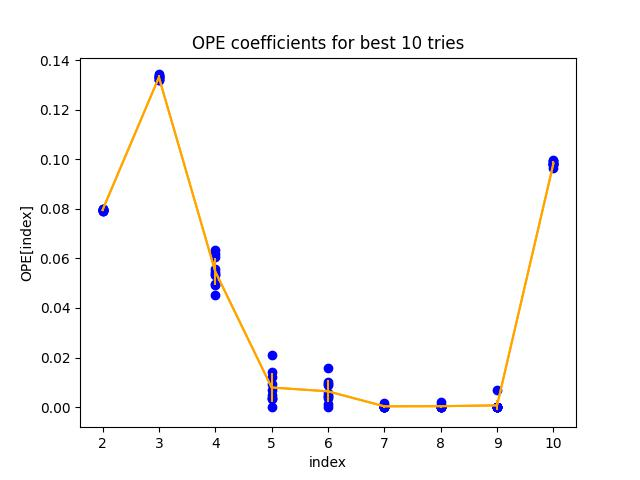
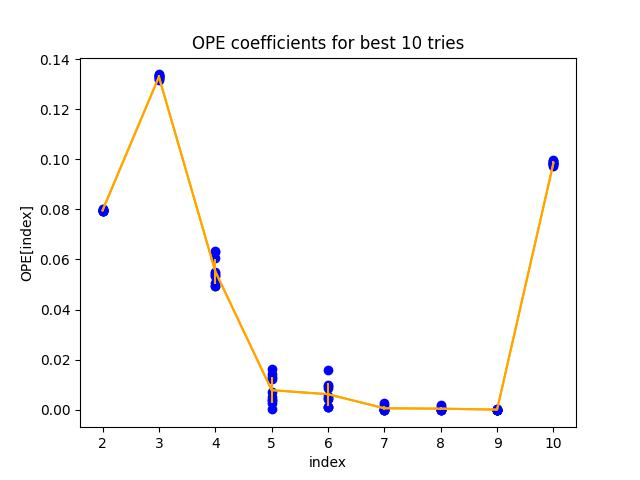
Added some more results

diff --git a/analyze_BPS_OPEs.py b/analyze_BPS_OPEs.py
@@ -14,11 +14,11 @@ gs = np.concatenate((np.arange(start=0.01, stop=0.25, step=0.01),
                      #np.arange(start=4.25, stop=5.25, step=0.25)
                      ))
 gs = np.around(gs, decimals=2)
-g = 0.25
+g = 0.35
 g_index = np.argwhere(gs==g)[0]
-
-path = join('/data/trenta', 'results_BPS_1fix_g025')
-prefix = 'g025'
+OPE_fix=1
+path = join('/data/trenta', f'results_BPS_{OPE_fix}fix_g035')
+prefix = 'g035'
 onlyfiles = [f for f in listdir(path) if isfile(join(path, f))]
 r = re.compile('sac[0-9]+.csv')
 onlyfiles = list(filter(r.match, onlyfiles))
@@ -31,10 +31,9 @@ best_reward = 0.
 delta_len = 10
 lambda_len = 10
 
-lambda_fix = 1
 
 rewards = np.zeros(n_files)
-OPEs = np.zeros((n_files, lambda_len-lambda_fix))
+OPEs = np.zeros((n_files, lambda_len-OPE_fix))
 
 for i, f in enumerate(onlyfiles):
     currf = open(join(path, f))
@@ -53,23 +52,23 @@ for i, f in enumerate(onlyfiles):
     curr_OPE = [float(data[i]) for i in range(5+delta_len, 5+delta_len+lambda_len)]
 
     rewards[i] = curr_rew
-    OPEs[i] = curr_OPE[lambda_fix:]
+    OPEs[i] = curr_OPE[OPE_fix:]
         
     currf.close()
     
 orderer = np.argsort(rewards)
-
+orderer = np.flip(orderer)
 OPEs_ordered = OPEs[orderer]
 
-best_rew_to_take = 500
+best_rew_to_take = 10
 
 analysis_path = f'./BPS_analysis/{prefix}'
 if not os.path.exists(analysis_path):
         os.makedirs(analysis_path)
-vals = OPEs_ordered[-best_rew_to_take:]
+vals = OPEs_ordered[:best_rew_to_take]
 OPE_means = np.mean(vals, axis=0)
 OPE_stds = np.std(vals, axis=0)
-with open(join(analysis_path, f'{prefix}_OPE4_10_{best_rew_to_take}.txt'), 'w') as f:
+with open(join(analysis_path, f'{prefix}_OPE{OPE_fix+1}_10_{best_rew_to_take}.txt'), 'w') as f:
     print(f'Best {best_rew_to_take} rewards', file=f)
     print('OPE means:', file=f)
     print(OPE_means, file=f)
@@ -79,11 +78,11 @@ with open(join(analysis_path, f'{prefix}_OPE4_10_{best_rew_to_take}.txt'), 'w') 
     print(100*OPE_stds/OPE_means, file=f)
 
 plt.figure()
-for i in range(lambda_fix+1, lambda_len+1):
-    plt.scatter(np.ones(best_rew_to_take)*i, vals[:, i-lambda_fix-1], color='blue')
-plt.plot(range(lambda_fix+1, lambda_len+1), OPE_means, color='orange')
-plt.errorbar(range(lambda_fix+1, lambda_len+1), OPE_means, yerr=OPE_stds, color='orange')
+for i in range(OPE_fix+1, lambda_len+1):
+    plt.scatter(np.ones(best_rew_to_take)*i, vals[:, i-OPE_fix-1], color='blue')
+plt.plot(range(OPE_fix+1, lambda_len+1), OPE_means, color='orange')
+plt.errorbar(range(OPE_fix+1, lambda_len+1), OPE_means, yerr=OPE_stds, color='orange')
 plt.xlabel('index')
 plt.ylabel('OPE[index]')
 plt.title(f'OPE coefficients for best {best_rew_to_take} tries')
-plt.savefig(join(analysis_path, f'{prefix}_OPE4_10_{best_rew_to_take}.jpg'))
+plt.savefig(join(analysis_path, f'{prefix}_OPE{OPE_fix+1}_10_{best_rew_to_take}.jpg'))

diff --git a/run_cluster_BPS.py b/run_cluster_BPS.py
@@ -42,11 +42,12 @@ if __name__ == '__main__':
     gs = np.concatenate((np.arange(start=0.01, stop=0.25, step=0.01), np.arange(start=0.25, stop=4.05, step=0.05)))
     gs = np.around(gs, decimals=2)
     
-    g = 0.25
+    g = 0.45
     g_index = np.argwhere(gs==g)[0]
+    OPE_fix=1
     integral_mode = 2
-    res_path = '/data/trenta/results_BPS_1fix_g025'
-    res_path_steps = '/data/trenta/results_BPS_1fix_g025_steps'
+    res_path = f'/data/trenta/results_BPS_{OPE_fix}fix_g045'
+    res_path_steps = f'/data/trenta/results_BPS_{OPE_fix}fix_g045_steps'
     if not os.path.exists(res_path):
         os.makedirs(res_path)
         
@@ -125,7 +126,7 @@ if __name__ == '__main__':
 
         
         # ---Instantiating some relevant classes---
-        params = ParametersBPS_SAC(config=run_config, g=g, integral_mode=integral_mode, g_index=g_index, OPE_fix=1)
+        params = ParametersBPS_SAC(config=run_config, g=g, integral_mode=integral_mode, g_index=g_index, OPE_fix=OPE_fix)
         agent_config['w1'] = params.w1
         agent_config['w2'] = params.w2
         zd = ZData()

diff --git a/test_BPS.py b/test_BPS.py
@@ -35,7 +35,7 @@ gs = np.concatenate((np.arange(start=0.01, stop=0.25, step=0.01),
                      ))
 integral_mode = 2
 print(gs)
-g = 1.
+g = 0.1
 gs = np.around(gs, decimals=2)
 zd = ZData()
 params = ParametersBPS_SAC(config=run_config, g=g, integral_mode=integral_mode)
